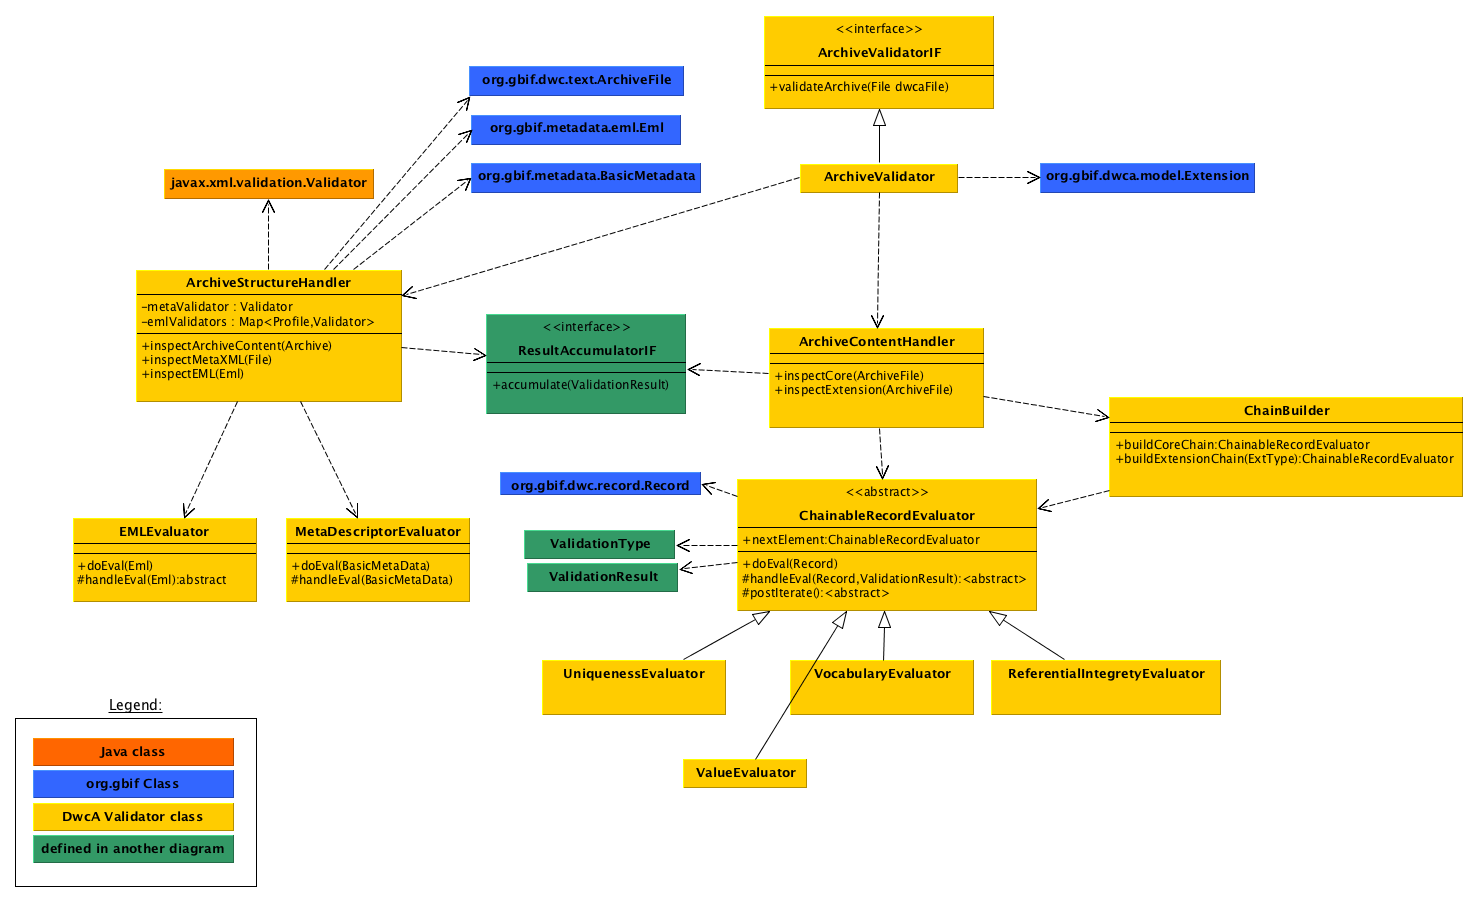
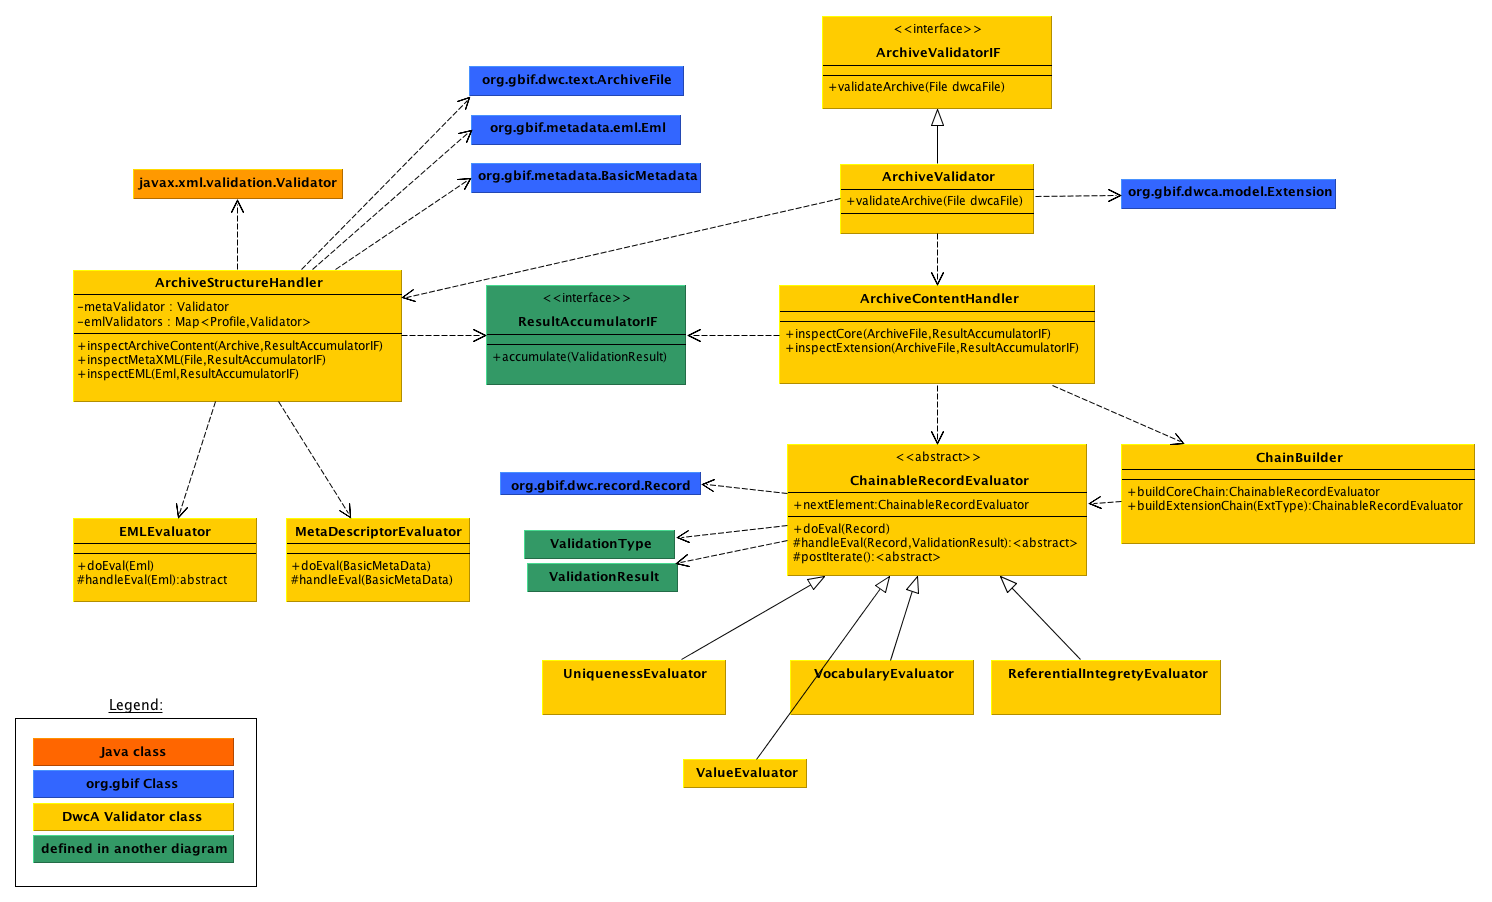
wip, adding ResultAccumulatorIF to validations

diff --git a/dwca-validator-lib/src/main/java/org/gbif/dwc/validator/impl/ArchiveValidator.java b/dwca-validator-lib/src/main/java/org/gbif/dwc/validator/impl/ArchiveValidator.java
@@ -1,19 +1,20 @@
 package org.gbif.dwc.validator.impl;
 
+import java.io.File;
+import java.io.FileInputStream;
+import java.io.IOException;
+import java.util.UUID;
+
 import org.gbif.dwc.text.Archive;
 import org.gbif.dwc.text.ArchiveFactory;
 import org.gbif.dwc.text.UnsupportedArchiveException;
 import org.gbif.dwc.validator.ArchiveValidatorIF;
 import org.gbif.dwc.validator.handler.ArchiveContentHandler;
 import org.gbif.dwc.validator.handler.ArchiveStructureHandler;
+import org.gbif.dwc.validator.result.ResultAccumulatorIF;
+import org.gbif.dwc.validator.result.impl.FileWriterResultAccumulator;
 import org.gbif.metadata.eml.Eml;
 import org.gbif.metadata.eml.EmlFactory;
-
-import java.io.File;
-import java.io.FileInputStream;
-import java.io.IOException;
-import java.util.UUID;
-
 import org.slf4j.Logger;
 import org.slf4j.LoggerFactory;
 import org.xml.sax.SAXException;
@@ -46,18 +47,20 @@ public class ArchiveValidator implements ArchiveValidatorIF {
   @Override
   public void validateArchive(File dwcaFile) {
     File tmpFolder = new File(new File(workingFolder), UUID.randomUUID().toString());
+   
     try {
+      ResultAccumulatorIF resultAccumulator = null;//new FileWriterResultAccumulator("");
       Archive dwc = ArchiveFactory.openArchive(dwcaFile, tmpFolder);
-      structureHandler.inspectArchiveContent(dwc);
+      structureHandler.inspectArchiveContent(dwc, resultAccumulator);
 
       File metaFile = new File(tmpFolder, META_XML_FILE);
       if (metaFile.exists()) {
-        structureHandler.inspectMetaXML(metaFile);
+        structureHandler.inspectMetaXML(metaFile, resultAccumulator);
       }
 
       if (dwc.getMetadataLocation() != null) {
         Eml eml = EmlFactory.build(new FileInputStream(dwc.getMetadataLocationFile()));
-        structureHandler.inspectEML(eml);
+        structureHandler.inspectEML(eml, resultAccumulator);
       }
 
       // structureHandler.inspectEML(dwc.);

diff --git a/dwca-validator-lib/src/test/java/org/gbif/dwc/validator/ArchiveValidatorTest.java b/dwca-validator-lib/src/test/java/org/gbif/dwc/validator/ArchiveValidatorTest.java
@@ -3,6 +3,7 @@ package org.gbif.dwc.validator;
 import org.gbif.dwc.text.Archive;
 import org.gbif.dwc.validator.handler.ArchiveStructureHandler;
 import org.gbif.dwc.validator.impl.ArchiveValidator;
+import org.gbif.dwc.validator.result.ResultAccumulatorIF;
 import org.gbif.metadata.eml.Eml;
 
 import java.io.File;
@@ -33,20 +34,20 @@ public class ArchiveValidatorTest {
     }
 
     @Override
-    public void inspectArchiveContent(Archive archive) {
-      super.inspectArchiveContent(archive);
+    public void inspectArchiveContent(Archive archive, ResultAccumulatorIF resultAccumulator) {
+      super.inspectArchiveContent(archive,resultAccumulator);
       inspectArchiveContentCalled = true;
     }
 
     @Override
-    public void inspectEML(Eml eml) {
-      super.inspectEML(eml);
+    public void inspectEML(Eml eml, ResultAccumulatorIF resultAccumulator) {
+      super.inspectEML(eml,resultAccumulator);
       inspectEMLCalled = true;
     }
 
     @Override
-    public void inspectMetaXML(File metaXML) {
-      super.inspectMetaXML(metaXML);
+    public void inspectMetaXML(File metaXML, ResultAccumulatorIF resultAccumulator) {
+      super.inspectMetaXML(metaXML,resultAccumulator);
       inspectMetaXMLCalled = true;
     }
   }

diff --git a/dwca-validator-lib/src/main/java/org/gbif/dwc/validator/handler/ArchiveStructureHandler.java b/dwca-validator-lib/src/main/java/org/gbif/dwc/validator/handler/ArchiveStructureHandler.java
@@ -1,6 +1,7 @@
 package org.gbif.dwc.validator.handler;
 
 import org.gbif.dwc.text.Archive;
+import org.gbif.dwc.validator.result.ResultAccumulatorIF;
 import org.gbif.metadata.eml.Eml;
 
 import java.io.File;
@@ -18,15 +19,15 @@ public class ArchiveStructureHandler {
    * 
    * @param archive
    */
-  public void inspectArchiveContent(Archive archive) {
+  public void inspectArchiveContent(Archive archive, ResultAccumulatorIF resultAccumulator) {
 
   }
 
-  public void inspectEML(Eml eml) {
+  public void inspectEML(Eml eml, ResultAccumulatorIF resultAccumulator) {
 
   }
 
-  public void inspectMetaXML(File metaXML) {
+  public void inspectMetaXML(File metaXML, ResultAccumulatorIF resultAccumulator) {
 
   }
 

diff --git a/dwca-validator-lib/src/main/java/org/gbif/dwc/validator/handler/ArchiveContentHandler.java b/dwca-validator-lib/src/main/java/org/gbif/dwc/validator/handler/ArchiveContentHandler.java
@@ -1,6 +1,7 @@
 package org.gbif.dwc.validator.handler;
 
 import org.gbif.dwc.text.ArchiveFile;
+import org.gbif.dwc.validator.result.ResultAccumulatorIF;
 
 /**
  * Handler responsible for the validation of the content of the archive.
@@ -10,11 +11,11 @@ import org.gbif.dwc.text.ArchiveFile;
  */
 public class ArchiveContentHandler {
 
-  public void inspectCore(ArchiveFile archiveFile) {
+  public void inspectCore(ArchiveFile archiveFile, ResultAccumulatorIF resultAccumulator) {
 
   }
 
-  public void inspectExtension(ArchiveFile archiveFile) {
+  public void inspectExtension(ArchiveFile archiveFile, ResultAccumulatorIF resultAccumulator) {
 
   }
 

diff --git a/dwca-validator-lib/src/main/java/org/gbif/dwc/validator/evaluator/ChainableRecordEvaluator.java b/dwca-validator-lib/src/main/java/org/gbif/dwc/validator/evaluator/ChainableRecordEvaluator.java
@@ -1,0 +1,28 @@
+package org.gbif.dwc.validator.evaluator;
+
+import org.gbif.dwc.record.Record;
+
+/**
+ * Abstract class for chainable evaluators.
+ * @author christiangendreau
+ *
+ */
+public abstract class ChainableRecordEvaluator {
+	
+	private ChainableRecordEvaluator nextElement;
+	
+	/**
+	 * Do validation and call nest element in the chain (if there is one).
+	 * @param record
+	 */
+	public void doEval(Record record){
+		handleEval(record);
+		if(nextElement == null){
+			nextElement.doEval(record);
+		}
+	}
+	
+	protected abstract void handleEval(Record record);
+	protected abstract void postIterate();
+
+}
